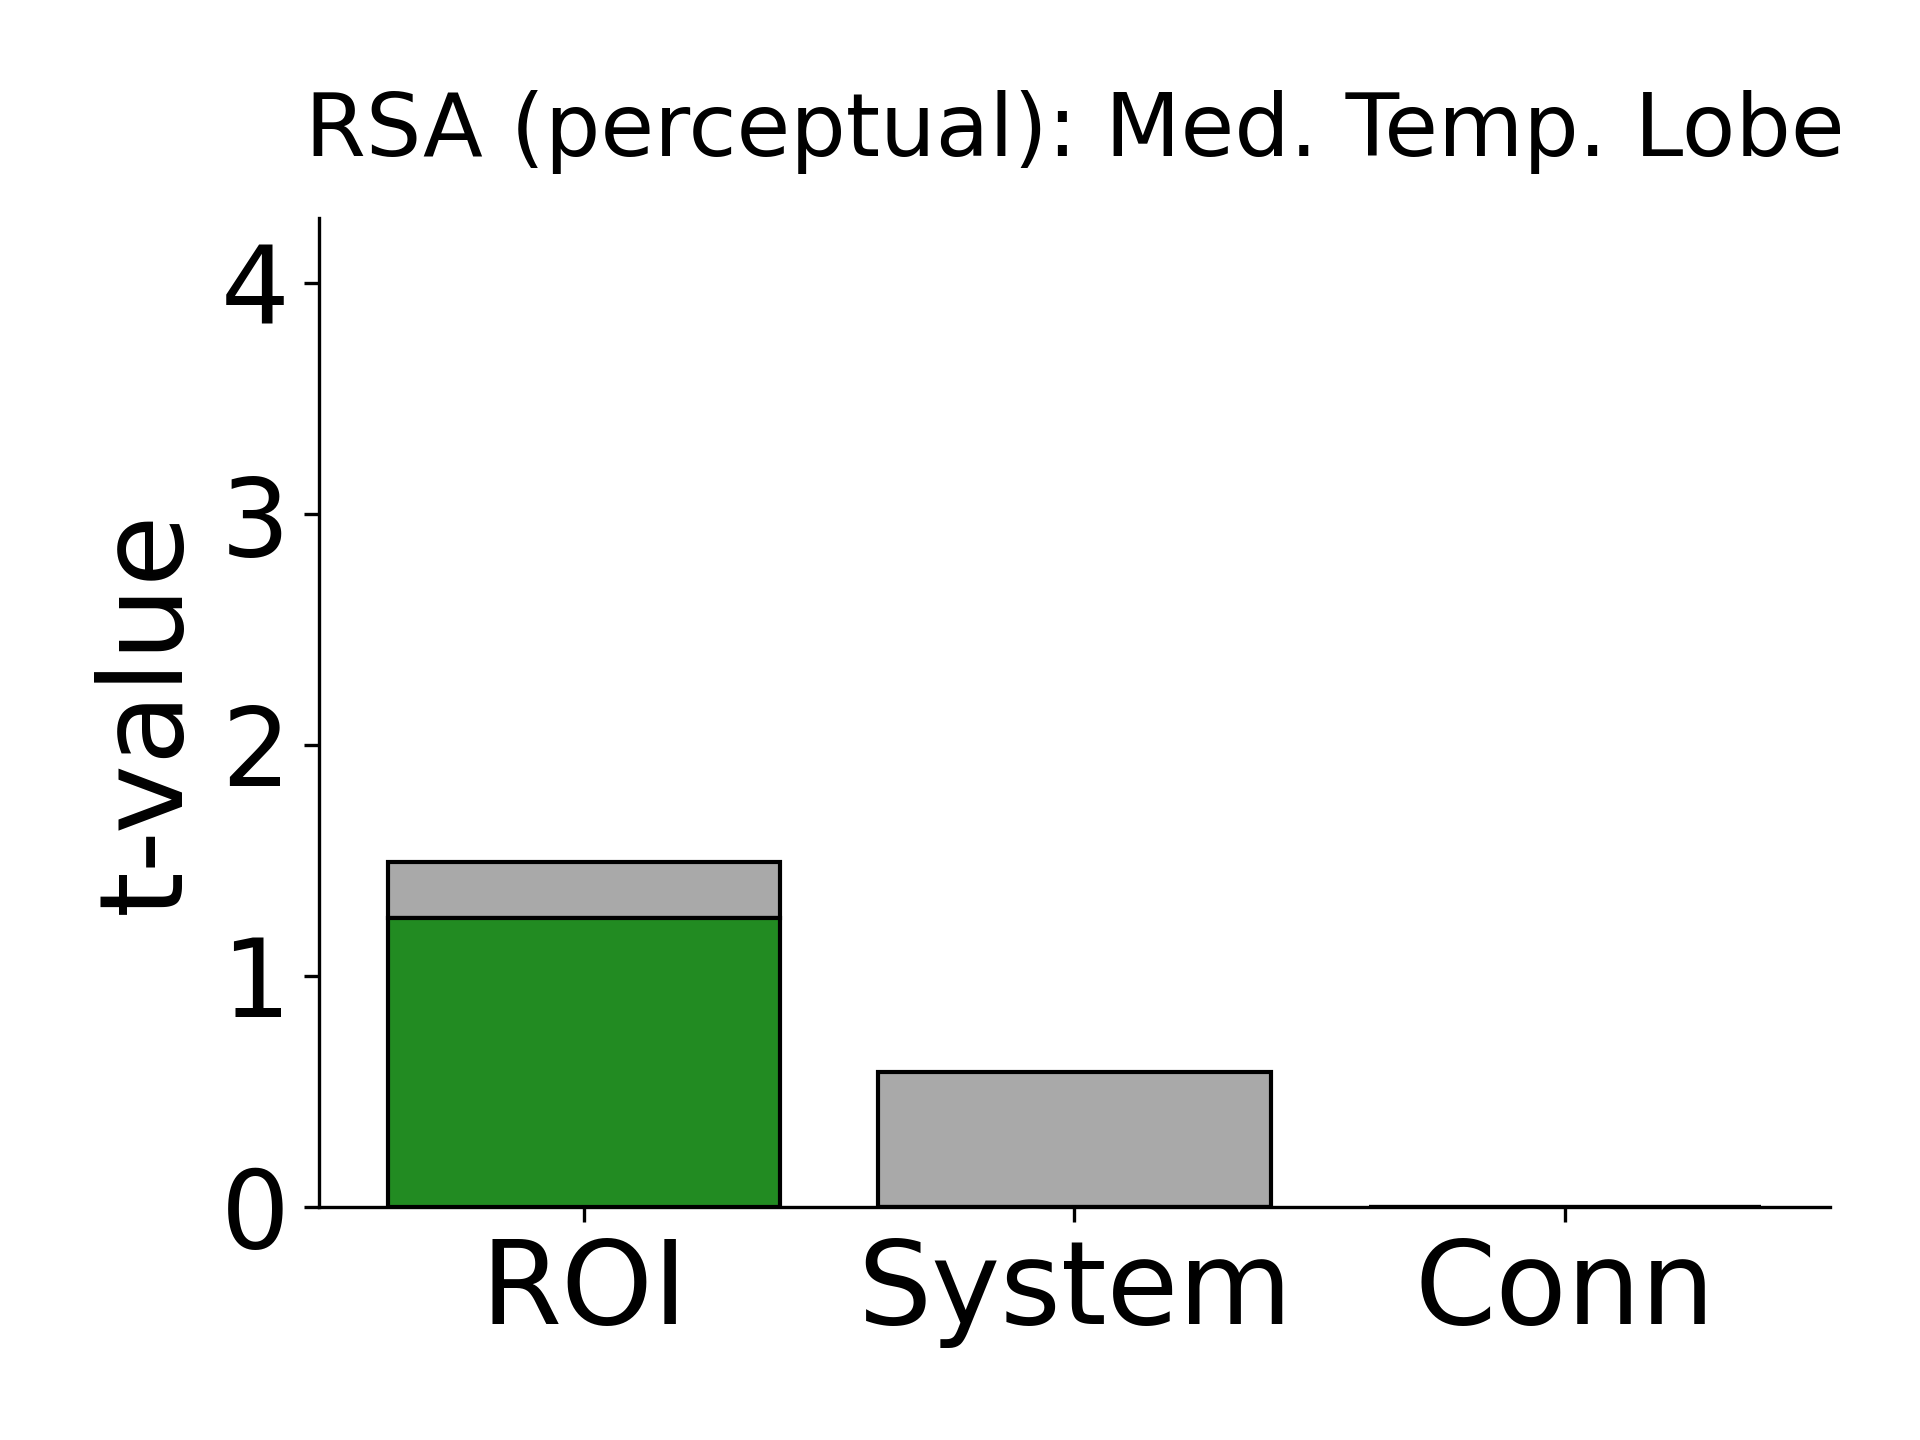
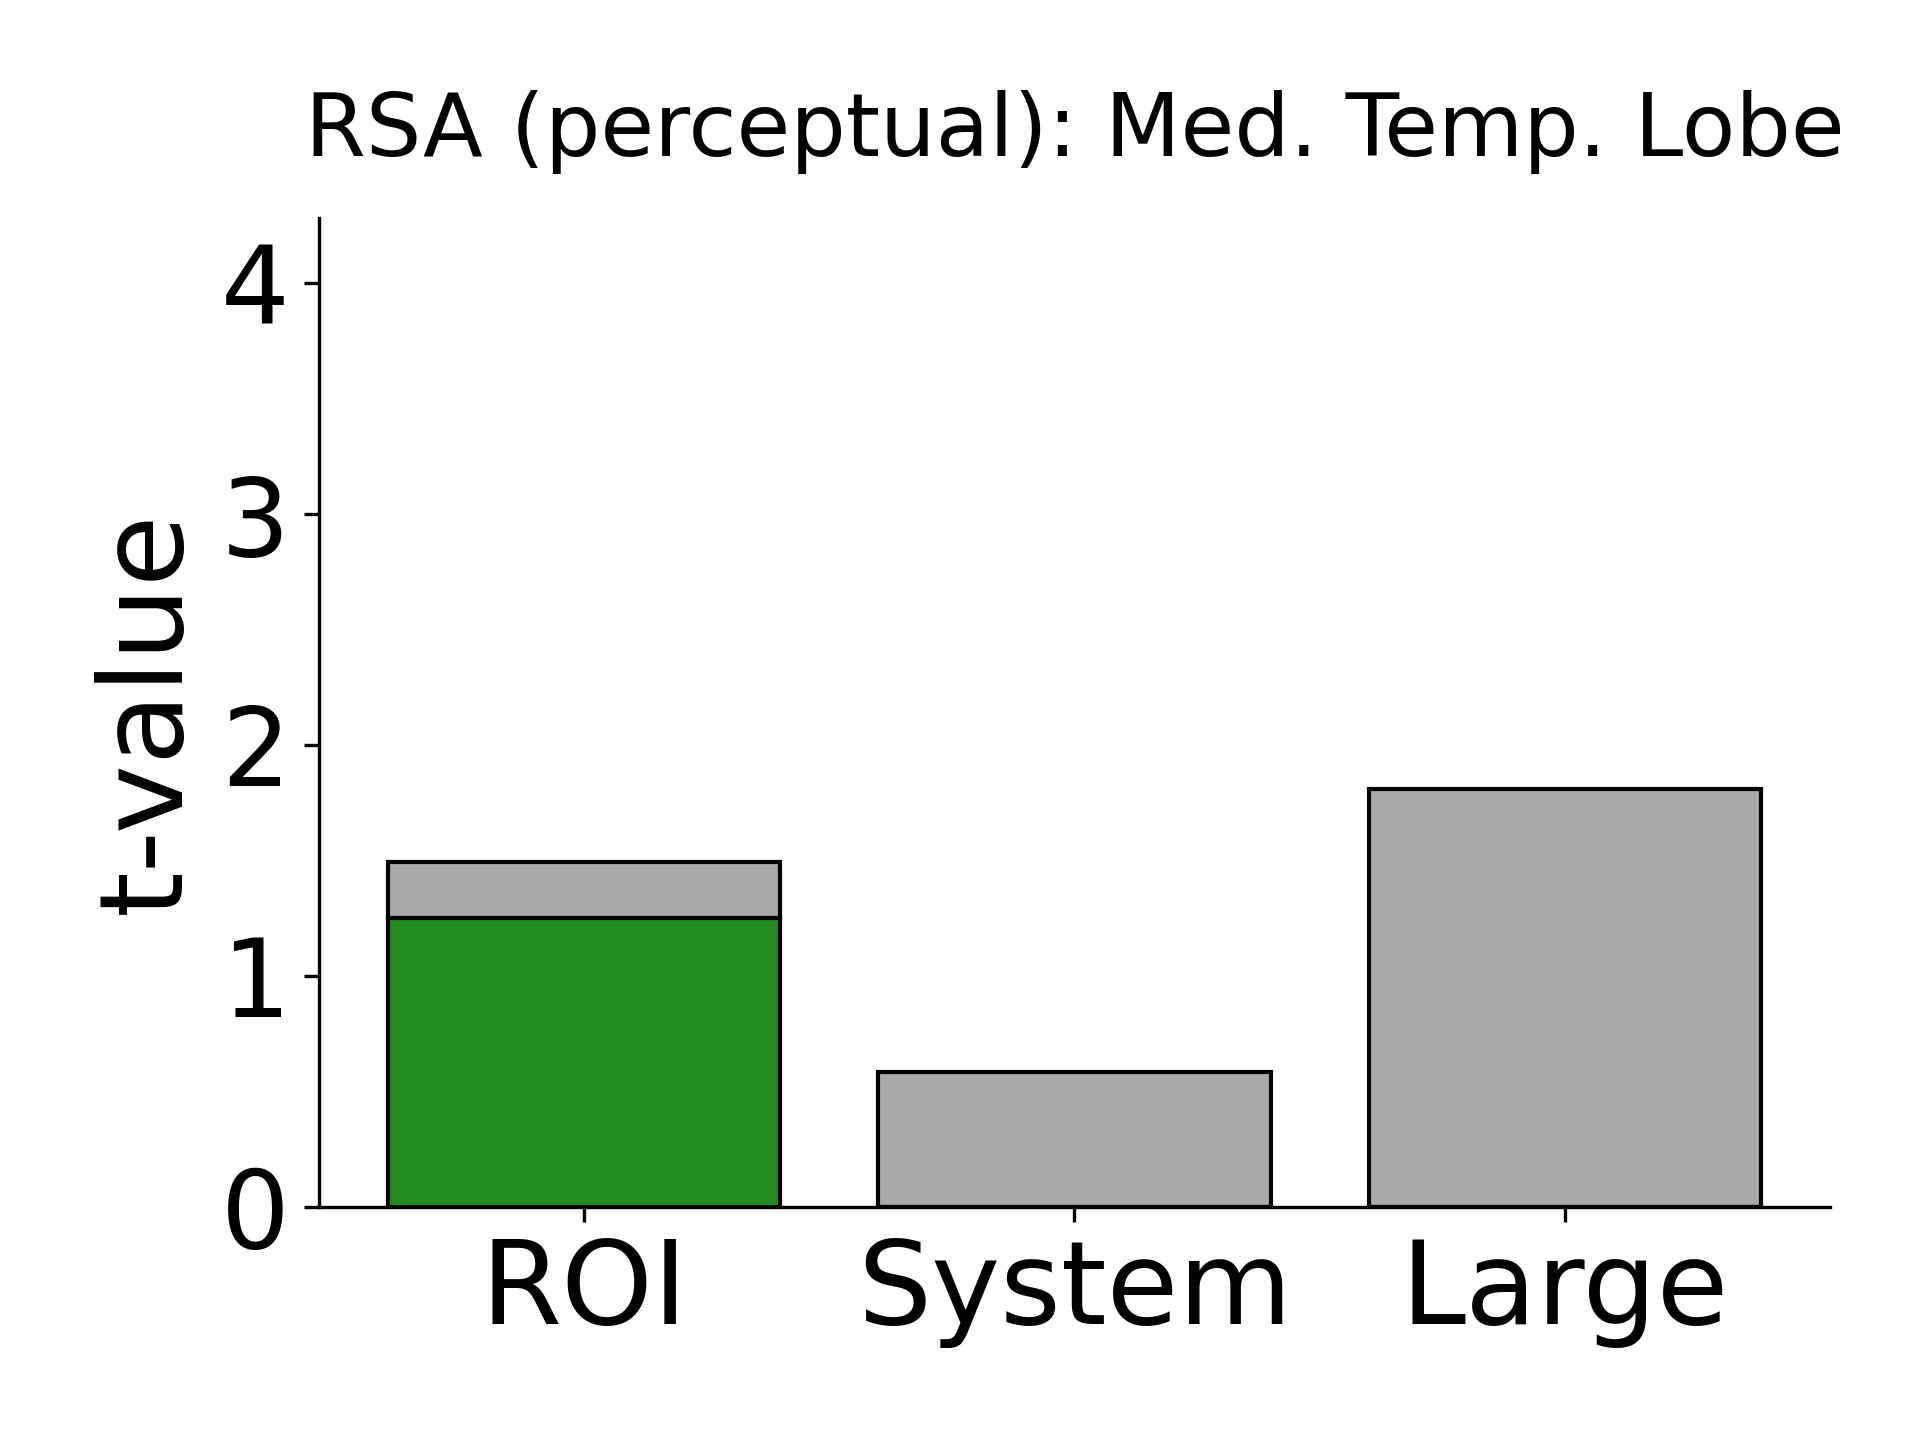
changed org_by_region in conn_RSA and conn_ERS. hopefully it's right now. this is meant to accomodate all the different things (e.g., including "large")

Changed region(s): [[0.6875, 0.5312, 0.9375, 0.9375]]

diff --git a/connRSA/conn_analyze_IRAFs.py b/connRSA/conn_analyze_IRAFs.py
@@ -77,12 +77,12 @@ def load_for_lmer(RSA=True, semantic=False, do_networks=False,
         settings['RDM_method'] = None
         settings['second_order'] = 'spear'
 
-    if not settings['combine_regions']:
-
-        results_conn = pickle_wrap(run_settings, None, kwargs=settings,
-                                   easy_override=False, verbose=1,
-                                   cache_dir=dir_results)
-        report_results(results_conn, do_lmer=False)
+    # if not settings['combine_regions'] and False:
+    #
+    #     results_conn = pickle_wrap(run_settings, None, kwargs=settings,
+    #                                easy_override=False, verbose=1,
+    #                                cache_dir=dir_results)
+    #     report_results(results_conn, do_lmer=False)
         # quit()
 
     if ('RDM_method' in settings and (settings['RDM_method'] is not None) and
@@ -92,17 +92,17 @@ def load_for_lmer(RSA=True, semantic=False, do_networks=False,
 
 
     settings['conn'] = 'BOLD'
-    results_bold_comb = pickle_wrap(run_settings, None,
-                                   kwargs=settings, easy_override=False,
-                                   verbose=1, cache_dir=dir_results)
     print(f'BOLD ' * 10)
+    results_bold_comb = pickle_wrap(run_settings, None,
+                                   kwargs=settings, easy_override=True,
+                                   verbose=1, cache_dir=dir_results)
     report_results(results_bold_comb, do_lmer=False)
 
     if settings['do_networks'] != 19: # this is covered by combine one below
         print(f'COMBINE BIG ' * 10)
         settings['combine_regions'] = True
         results_bold_cmb_big = pickle_wrap(run_settings, None,
-                                           kwargs=settings, easy_override=True,
+                                           kwargs=settings, easy_override=False,
                                            verbose=1, cache_dir=dir_results)
         report_results(results_bold_cmb_big, do_lmer=False)
 
@@ -220,7 +220,7 @@ def run_lmer_PFC_RSA():
     RSA = False
     semantic = False
     conn = 'prod'
-    trial_similarity = 'corr' # euc
+    trial_similarity = 'corr'
     second_order = 'spear'
     four_tasks = '7'
     combine_regions = False
@@ -236,13 +236,13 @@ def run_lmer_PFC_RSA():
     # target_ROI = 'perceptual'
     # target_ROI = 'Occipital'
     # target_ROI = 'Hipp'
-    # target_ROI = 'SFG'
+    target_ROI = 'SFG'
     # target_ROI = 'PFC_ACC'
     # target_ROI = 'MTL'
     # target_ROI = 'Dorsal'
     # target_ROI = 'full_frontal_CG'
     # target_ROI = 'FP'
-    target_ROI = 'MTL'
+    # target_ROI = 'MTL'
     # target_ROI = 'MTL2'
 
 

diff --git a/connRSA/conn_regress.py b/connRSA/conn_regress.py
@@ -150,6 +150,10 @@ def do_regr_ERS_sn(sn, ROI_focus_conn, ROIs_ctrl, fp0, fp1, trial_similarity,
     dir_focus = fr'{dir_focus}/{fp0}_{fp1}_{trial_similarity}_{stdize_by_run}'
     fp_focus = f'{dir_focus}/{sn}_{ROI_focus_conn}.npy'
     with open(fp_focus, 'rb') as f:
+        age = os.path.getmtime(fp_focus)
+        from datetime import datetime
+        age = datetime.fromtimestamp(age)
+        print(f'{age} | {fp_focus=}')
         ERS_focus = np.load(f)
     flat_focus = ERS_focus.flatten()
 
@@ -797,8 +801,8 @@ def do_regr():
 
     for (ISPC, RSA, semantic, ERS_alt) in l:
         if ISPC: continue
-        if not RSA: continue
-        if not semantic: continue
+        if RSA: continue
+        # if semantic: continue
         # ts_ROI, ts_BOLD, ts_conn = [], [], []
         # if not semantic: continue
         # if not RSA or ISPC: continue
@@ -834,13 +838,12 @@ def do_regr():
 
                 t_ROIs_all, t_bold_all, t_conn_all, title = (
                     pickle_wrap(plot_stacked_bars, kwargs=plot_kwargs,
-                                verbose=0,
-                                easy_override=False))
+                                verbose=0, easy_override=True))
                                 # easy_override='FuG' in target_ROI))
                 #
                 # if 'Hipp' in target_ROI:
                 #     t_conn_all = 1e10
-                quit()
+                # quit()
                 print(f'{target_ROI} | {t_ROIs_all:.2f}, {t_bold_all:.2f} '
                       f'{t_conn_all:.2f}')
 

diff --git a/connRSA/conn_ERS.py b/connRSA/conn_ERS.py
@@ -103,8 +103,11 @@ def ERS_sn(sn, atlas, fp0='bl2_fMRI', fp1='obj2_fMRI',
     Path(dir_out).mkdir(parents=True, exist_ok=True)
 
     # org_by_region = (not BOLD) or (networks)
-    # org_by_region = (not BOLD) or (networks and not combine_regions)
-    org_by_region = (not BOLD) and (networks or not combine_regions)
+    org_by_region = (not BOLD) or (networks and not combine_regions)
+    # org_by_region = (not BOLD) and (networks or not combine_regions)
+
+    # print(org_by_region)
+    # quit()
 
     ROI2vecs_enc, ROI2vecs_ret = get_ROI_vecs_wrap(sn, atlas, fp0, df_sn,
                                                    fp1=fp1, networks=networks,
@@ -154,6 +157,7 @@ def ERS_sn(sn, atlas, fp0='bl2_fMRI', fp1='obj2_fMRI',
 
         cmb = '_cmb' if (combine_regions and BOLD) else ''
         fn_matrix = f'{sn}_{ROI}_{conn}{cmb}.npy'
+        # print(f'{fn_matrix=}')
         fp_matrix = f'{dir_out}/{fn_matrix}'
         with open(fp_matrix, 'wb') as f:
             np.save(f, ERS_ar)

diff --git a/utils.py b/utils.py
@@ -327,19 +327,10 @@ def obj2str(val):
     else:
         kwargs_str += f'{val}_'
     if len(kwargs_str) > 20:
-        pre_kwargs_str = kwargs_str
+        # pre_kwargs_str = kwargs_str
         kwargs_str = str(zlib.adler32(kwargs_str.encode()))
-        assert len(kwargs_str) < 21, f'{len(kwargs_str)=}: {kwargs_str}'
-        print(f'Hash: {kwargs_str} | Pre: {pre_kwargs_str}')
-        # target_len = 20
-        # skipper = len(kwargs_str) // target_len
-        # print(f'{kwargs_str=}')
-        # print('---')
-        # print(hash(kwargs_str))
-        # print('-----')
-        # print(str(hash(kwargs_str)))
-        # quit()
-        # kwargs_str = kwargs_str[::skipper]
+        # assert len(kwargs_str) < 21, f'{len(kwargs_str)=}: {kwargs_str}'
+        # print(f'Hash: {kwargs_str} | Pre: {pre_kwargs_str}')
 
     return kwargs_str
 

diff --git a/connRSA/conn_utils.py b/connRSA/conn_utils.py
@@ -154,6 +154,7 @@ def cluster_regions(ROI2vecs, networks):
             else:
                 if ROI != 'CG':
                     warnings.warn(f'ROI={ROI} not found')
+        # print(f'{ROIs} | {len(vecs_l)=}')
         vecs = np.concatenate(vecs_l, axis=1)
         ROI2vecs_new[network] = vecs
     return ROI2vecs_new
@@ -165,6 +166,7 @@ def get_ROI_vecs_wrap(sn, atlas, fp0, df_sn, fp1=None, networks=None,
                       easy_override=False):
     # print(f'{combine_regions=}')
     # print(f'{org_by_region=}')
+
     assert not (combine_regions and org_by_region)
 
     ROI2vecs0 = get_ROI_vecs(sn, atlas, fp0, df_sn, nan_thresh=1.01,

diff --git a/connRSA/conn_RSA.py b/connRSA/conn_RSA.py
@@ -32,7 +32,10 @@ def RSA_sn(sn, atlas, d_vecs, fp, networks=True,
     # print(f'{networks=}')
     # print(f'{combine_regions=}')
     # org_by_region = (not BOLD) or (networks and not combine_regions)
-    org_by_region = (not BOLD) and (networks or not combine_regions)
+    # org_by_region = (not BOLD) and (networks or not combine_regions)
+    org_by_region = (not BOLD) or (networks and not combine_regions)
+
+
 
     ROI2vecs = get_ROI_vecs_wrap(sn, atlas, fp, df_sn, fp1=None,
                                  networks=networks, org_by_region=org_by_region,
